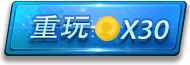
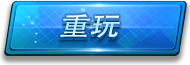
免费重玩

Changed region(s): [[0.1316, 0.1846, 0.9211, 0.7077], [0.4211, 0.6462, 0.4474, 0.6769]]

diff --git a/websocket/src/main/resources/static/js/share/engine/aiEngine.js b/websocket/src/main/resources/static/js/share/engine/aiEngine.js
@@ -950,7 +950,7 @@ export default class AiEngine extends Engine {
             buyType: "AGAIN_FOR_SINGLE"
         }, data => {
             Resource.setUser(data);
-            Common.addMessage("续关成功!", '#FF0');
+            Common.addMessage("操作成功!", '#FF0');
 
             //重置初始生命
             this.playerLifeCount = 0;

diff --git a/websocket/src/main/java/com/integration/socket/model/stage/StageRoom.java b/websocket/src/main/java/com/integration/socket/model/stage/StageRoom.java
@@ -699,7 +699,7 @@ public class StageRoom extends BaseStage {
             throw new CustomException("地图读取异常, 操作失败");
         }
 
-        sendMessageToRoom(String.format("%s 选择了续关,游戏将在5秒后重新开始...", userBo.getUsername()), MessageType.SYSTEM_MESSAGE);
+        sendMessageToRoom(String.format("%s 选择了重玩,游戏将在5秒后重新开始...", userBo.getUsername()), MessageType.SYSTEM_MESSAGE);
 
         //重置总分
         this.scoreBo.setTotalScore(0);

diff --git a/websocket/src/main/java/com/integration/socket/service/ShopService.java b/websocket/src/main/java/com/integration/socket/service/ShopService.java
@@ -32,7 +32,7 @@ public class ShopService {
     private static final int GHOST_PRICE = 8;
     private static final int TANK02_PRICE = 20;
     private static final int TANK03_PRICE = 40;
-    private static final int AGAIN_PRICE = 30;
+    private static final int AGAIN_PRICE = 0;
 
     public UserDto buyWithCoin(BuyDto buyDto) {
         UserRecord userRecord = userDao.queryUser(buyDto.getUserId());

diff --git a/websocket/src/main/java/com/integration/socket/controller/ShopController.java b/websocket/src/main/java/com/integration/socket/controller/ShopController.java
@@ -32,7 +32,7 @@ public class ShopController {
             throw new CustomException("参数出错!");
         }
         if (StringUtils.isEmpty(buyDto.getUserId())) {
-            throw new CustomException("网页用户不支持购买!");
+            throw new CustomException("网页用户不支持该操作!");
         }
 
         return shopService.buyWithCoin(buyDto);
